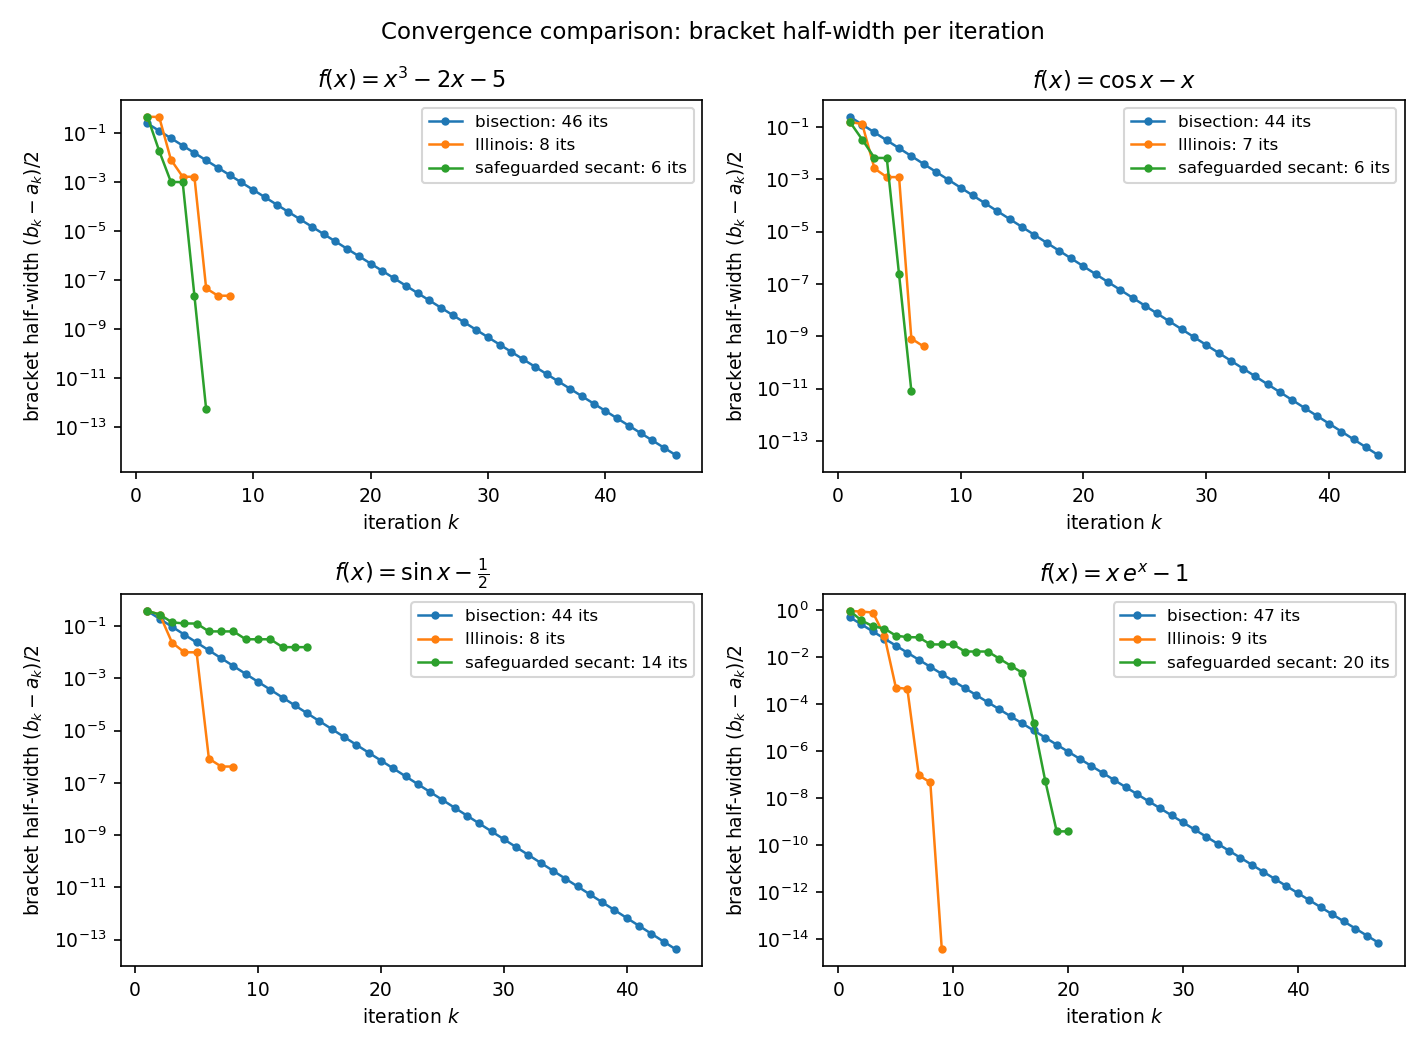
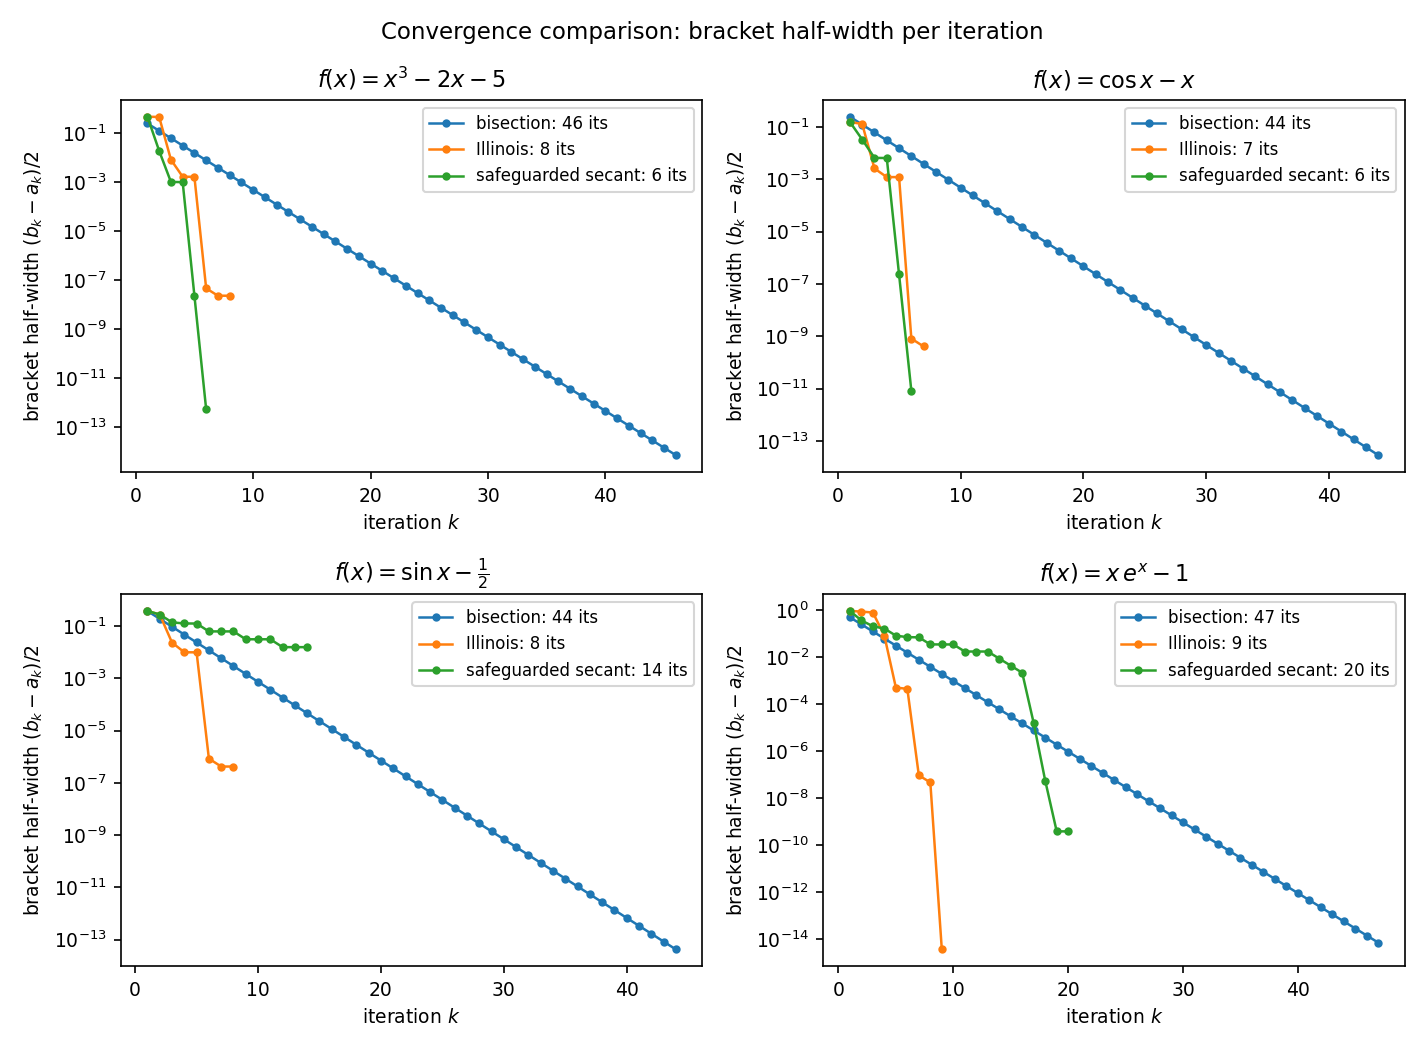
Document verified native results and preserve calendar provenance

diff --git a/README.md b/README.md
@@ -84,7 +84,7 @@ CI builds and runs the test suite on ubuntu gfortran with the same flags
 ```
 src/roots.f90            module bracket_root: 4 solvers, shared verified kernel,
                          error flags, step_record history, pure procedures
-tests/test_roots.f90     assertion suite (make test) - 96 checks
+tests/test_roots.f90     assertion suite (make test) - 103 checks
 examples/compare.f90     driver: 4 equations x 3 methods -> build/csv/*.csv
 tools/make_results.py    reads the CSVs -> still figures, animated GIF,
                          run_summary.json (plotting only; solvers are Fortran)
@@ -116,7 +116,7 @@ stagnation the Illinois modification exists to fix. Convergence plots:
 
 ## Verification summary
 
-`make test` runs 96 assertion checks, all passing in the reference run:
+`make test` runs 103 assertion checks, all passing in the reference run:
 
 - known roots (4 equations x 3 solvers) within `1e-12`, flags `OK`;
 - invalid brackets detected (same-sign endpoints, reversed bracket,
@@ -154,3 +154,8 @@ polynomial rootfinding claims, IEEE assumptions): [docs/verification.md](docs/ve
 ## License
 
 MIT — see [LICENSE](LICENSE).
+
+
+Calendar metadata: [date-record disclosure](docs/CALENDAR_HISTORY.md). Historical calendar-record author dates are synthetic; original software commits and actual committer dates are preserved.
+
+[Recorded Fortran driver CSVs](docs/results/data/summary.csv) accompany the regenerated figures; all twelve method/equation histories are saved in the same data directory.

diff --git a/docs/verification.md b/docs/verification.md
@@ -3,7 +3,7 @@
 `tests/test_roots.f90` is an assertion suite run by `make test`; it exits
 with status 1 (`error stop 1`) if any check fails, so CI gates on it.
 Every check prints `PASS`/`FAIL` with a specific message
-(96 checks total in the reference run; all passing).
+(103 checks total in the reference run; all passing).
 
 ## Reference roots used
 
@@ -64,6 +64,8 @@ analytic root; `x·e^x = 1` is an additional known-constant case.
 
 8. **Flag naming.** `flag_message` maps all four codes to their documented
    names (used by the driver's summary CSV).
+
+9. **Width-stop contract (7 checks).** Loose-xtol runs for bisection, Illinois and safeguarded secant return the updated bracket midpoint. The cubic regression checks the midpoint2.0625, its true residual, and the xtol root-error bound; returning the probed endpoint would violate that bound. The optional final midpoint evaluation is not a probing iteration; history rows retain the probed points.
 
 ## Limits of the verification
 
